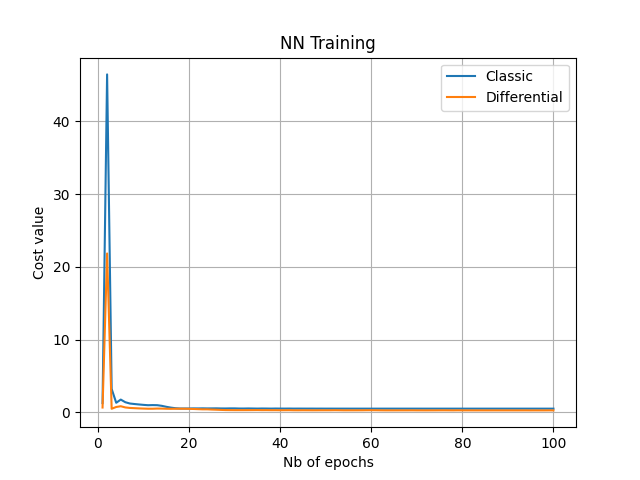
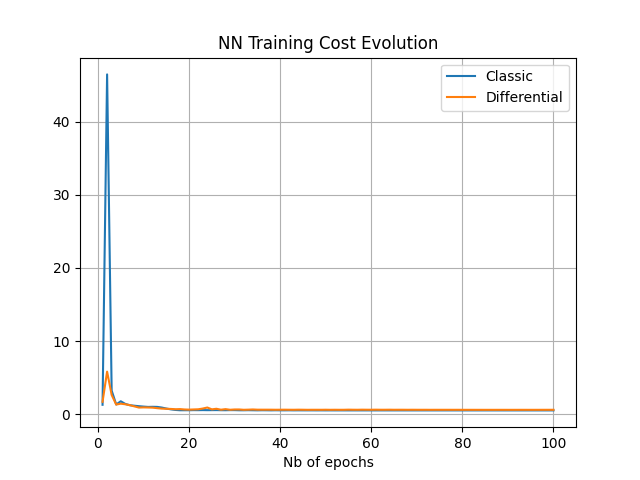
Added NN Time Indicators

diff --git a/nn_main.py b/nn_main.py
@@ -1,3 +1,4 @@
+import time
 import torch
 import matplotlib.pyplot as plt
 
@@ -28,32 +29,57 @@ nb_hidden_layers = 4
 nb_neurones = 20
 nb_epochs = 100
 
-# Training Set
+# Generate Normalized Training Set
+start = time.perf_counter()
 X, Y, dYdX = HestonLSM(strike=strike, barrier=barrier, v0=v0.clone(), risk_free_rate=risk_free_rate.clone(),
                        maturity=maturity, rho=rho.clone(), kappa=kappa.clone(), theta=theta.clone(),
                        sigma=sigma.clone(), nb_steps=nb_steps, nb_simuls=nb_simuls, seed=seed)
+X_mean, X_std, X_norm, Y_mean, Y_std, Y_norm, dYdX_mean, dYdX_std, dYdX_norm, lambda_j = normalize_data(X, Y, dYdX)
+end = time.perf_counter()
+print(f"Normalized Training Set Generated ({round(end - start, 1)}s)")
 
-# Normalized Training Set
-X_mean, X_std, X_norm, Y_mean, Y_std, Y_norm, dYdX_norm, lambda_j = normalize_data(X, Y, dYdX)
-
-# Classic Neural Network
+# Train Classic Neural Network
+start = time.perf_counter()
 classic_nn = Twin_Network(nb_inputs=1, nb_hidden_layer=nb_hidden_layers, nb_neurones=nb_neurones, seed=seed)
 classic_nn = training(model=classic_nn, X_norm=X_norm, Y_norm=Y_norm, nb_epochs=nb_epochs)
+end = time.perf_counter()
+print(f"Classic NN Trained ({round(end - start, 1)}s)")
 
-# Differential Neural Network
+# Train Differential Neural Network
+start = time.perf_counter()
 differential_nn = Twin_Network(nb_inputs=1, nb_hidden_layer=nb_hidden_layers, nb_neurones=nb_neurones, seed=seed)
 differential_nn = training(model=differential_nn, X_norm=X_norm, Y_norm=Y_norm, nb_epochs=nb_epochs,
                            dYdX_norm=dYdX_norm, lambda_j=lambda_j)
+end = time.perf_counter()
+print(f"Differential NN Trained ({round(end - start, 1)}s)")
 
-# Plot Cost Values
+# Price Classic Neural Network
+start = time.perf_counter()
+classic_nn_price = classic_nn.predict_price(S0, X_mean, X_std, Y_mean, Y_std)
+end = time.perf_counter()
+print(f"Option Priced With Classic NN ({round(end - start, 1)}s)")
+
+# Price Differentiated Neural Network
+start = time.perf_counter()
+differential_nn_price, differential_nn_delta = \
+    differential_nn.predict_price_and_diffs(S0, X_mean, X_std, Y_mean, Y_std, dYdX_mean, dYdX_std)
+end = time.perf_counter()
+print(f"Option Priced & Differentiated With Differential NN ({round(end - start, 1)}s)")
+
+# Plot NN Training Cost Evolution
 plt.plot(range(1, nb_epochs+1), classic_nn.cost_values, label="Classic")
 plt.plot(range(1, nb_epochs+1), differential_nn.cost_values, label="Differential")
 plt.xlabel("Nb of epochs")
-plt.ylabel("Cost value")
-plt.title("NN Training")
+plt.title("NN Training Cost Evolution")
 plt.legend()
 plt.grid()
 plt.savefig("results/nn_training.png")
 
-# Show Graphs
+# Display Results
+print("\nResults:")
+print(f" - Classic NN Price: {classic_nn_price}")
+print(f" - Differential NN Price: {differential_nn_price}")
+print(f" - Differential NN Delta: {differential_nn_delta}")
+
+# Display Graphs
 plt.show()

diff --git a/nn_class.py b/nn_class.py
@@ -47,20 +47,21 @@ class Twin_Network(nn.Module):
 
     def predict_price(self, X, X_mean, X_std, Y_mean, Y_std):
         # Forward Propagation
-        X_norm = torch.div(torch.tensor([X]) - X_mean, X_std)
-        Y_norm = self.forward(X_norm)
+        X = torch.tensor([X])
+        X_norm = torch.div(X - X_mean, X_std)
+        Y_norm = self.forward(X_norm)[0]
         Y = Y_norm * Y_std + Y_mean
         return Y
 
     def predict_price_and_diffs(self, X, X_mean, X_std, Y_mean, Y_std, dYdX_mean, dYdX_std):
         # Forward Propagation
-        X_norm = torch.div(torch.tensor([X]) - X_mean, X_std)
-        Y_norm = self.forward(X_norm)
+        X = torch.tensor([X], requires_grad=True)
+        X_norm = torch.div(X - X_mean, X_std)
+        Y_norm = self.forward(X_norm)[0]
         Y = Y_norm * Y_std + Y_mean
         # Backward Propagation
-        torch.autograd.grad(Y, torch.tensor([X]), retain_graph=True)
         Y.backward()
-        dYdX_norm = X.grad
+        dYdX_norm = X.grad[0]
         dYdX = dYdX_norm * dYdX_std + dYdX_mean
         return Y, dYdX
 
@@ -98,7 +99,7 @@ def training(model, X_norm, Y_norm, nb_epochs, dYdX_norm=None, lambda_j=None):
     # Optimizer
     optimizer = optim.Adam(params=model.parameters(), lr=0.1)
     # Optimization Loop
-    for i in range(0, nb_epochs):
+    for i in range(1, nb_epochs+1):
         optimizer.zero_grad()
         loss = criterion(model, X_norm, Y_norm, dYdX_norm, lambda_j, alpha)
         # Update Weights
@@ -106,5 +107,7 @@ def training(model, X_norm, Y_norm, nb_epochs, dYdX_norm=None, lambda_j=None):
         optimizer.step()
         # Store Cost Value
         model.cost_values.append(loss.item())
-        print(i+1, " - ", loss.item())
+        # Display Training Evolution
+        if i != nb_epochs and i % 25 == 0:
+            print(f"  [info] - {int(i/nb_epochs*100)}% NN Training Completed")
     return model

diff --git a/deep_learning_functions.py b/deep_learning_functions.py
@@ -285,10 +285,11 @@ def normalize_data(X: list, Y: list, dYdX: list):
      - labels mean (float)
      - labels stdev (float)
      - labels samples (1D array)
+     - pathwise differentials mean (float)
+     - pathwise differentials stdev (float)
      - normalized pathwise differentials (1D array)
-     - differential weights of the cost function (float)
+     - cost function differential weight (float)
     """
-    N = 1
     X_mean = torch.mean(X)
     X_std = torch.std(X)
     X_norm = torch.div(X - X_mean, X_std)
@@ -298,5 +299,5 @@ def normalize_data(X: list, Y: list, dYdX: list):
     dYdX_mean = torch.mean(dYdX)
     dYdX_std = torch.std(dYdX)
     dYdX_norm = torch.div(dYdX - dYdX_mean, dYdX_std)
-    lambda_j = 1 / torch.sqrt((1/N) * torch.sum(dYdX_norm * dYdX_norm))
-    return X_mean, X_std, X_norm, Y_mean, Y_std, Y_norm, dYdX_norm, lambda_j
+    lambda_j = 1 / torch.sqrt((1/len(dYdX_norm)) * torch.sum(torch.square(dYdX_norm)))
+    return X_mean, X_std, X_norm, Y_mean, Y_std, Y_norm, dYdX_mean, dYdX_std, dYdX_norm, lambda_j
